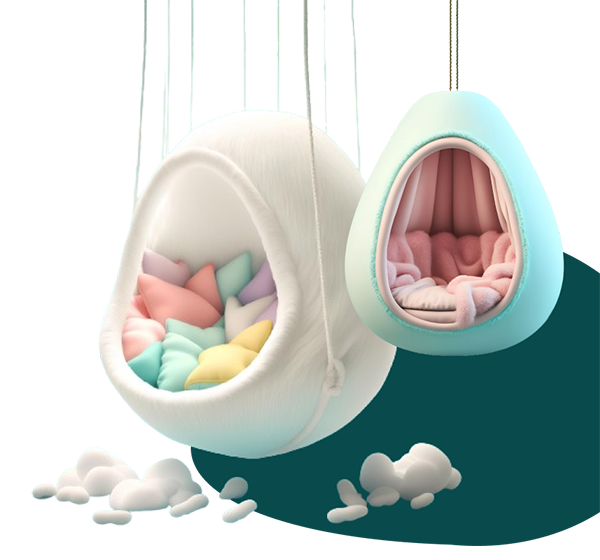
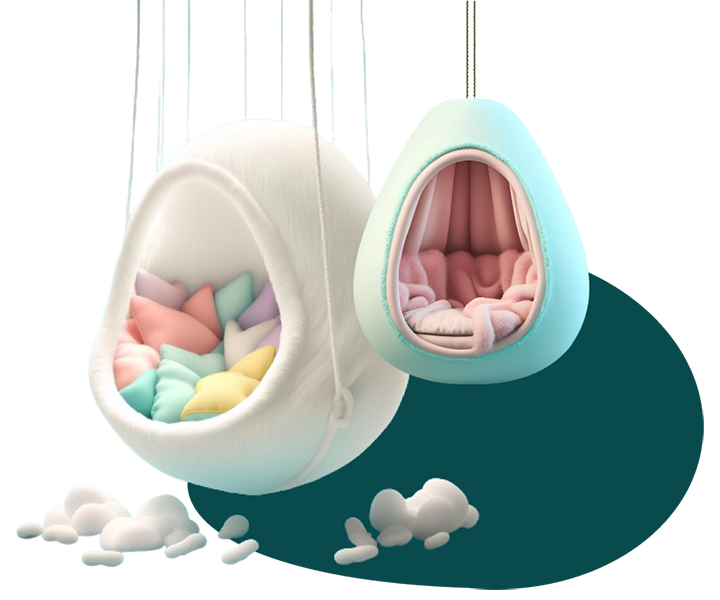
sistemato sedie sospese, srcset sedia marshmellow e bg sezione custom furniture

diff --git a/custom.css b/custom.css
@@ -302,6 +302,12 @@ strong{
 	width: 100%;
 	height: auto;
 	max-width: 720px;
+	transform: translateX(15%);
+
+ }
+
+ #creations-banner{
+	overflow-x: hidden;
  }
 
 
@@ -333,21 +339,32 @@ strong{
     display: none;
 }
 
-.reset-btn{
-	font-family: "Poppins", sans-serif;
-	font-size: 1rem;
-	font-weight: 500;
-	background-color: transparent;
-	color: var(--primary-color);
-	border: none;
-	padding-left: 0.5%;
+.reset-btn {
+    font-family: "Poppins", sans-serif;
+    font-size: 1rem;
+    font-weight: 500;
+    background-color: transparent;
+    color: var(--primary-color);
+    border: none;
+    padding-left: 0.5%;
+    position: relative;
 }
 
-
-
-.reset-btn:hover{
-	text-decoration: underline;
+.reset-btn::after {
+    content: '';
+    position: absolute;
+    width: 0;
+    height: 1px;
+    bottom: 0;
+    left: 0;
+    background-color: var(--primary-color);
+    transition: width 0.3s ease;
 }
+
+.reset-btn:hover::after {
+    width: 100%;
+}
+
 
  /*********CARD CREAZIONI********/
 .products-container{
@@ -366,7 +383,7 @@ strong{
 	background-size: contain;
 	background-repeat: no-repeat;
 	background-position: center bottom;
-	border-radius: 2.4rem;
+	border-radius: 50px;
 	margin: 1% 1% 0 1%;
 	align-content: space-between;
 
@@ -404,7 +421,7 @@ strong{
 }
 
 .card-body{
-	padding: 3rem 1.5rem 1.5rem 1.5rem;
+	padding: 50px 25px 25px 25px;
 }
 
 .card-body p{
@@ -414,8 +431,8 @@ strong{
 }
 
 .dot{
-	width: 2.5rem;
-    height: 2.5rem;
+	width: 42px;
+    height: 42px;
     border-radius: 50%;
     display: inline-block;
     cursor: pointer;
@@ -440,7 +457,7 @@ strong{
 
 @media (min-width: 768px) and (max-width: 1199px) {
 	.dot-group{
-		top: 58%; 
+		top: 60%; 
 	}
 	
 }
@@ -451,7 +468,7 @@ strong{
     left: 8%;
     z-index: 1;
     padding: 3% 5%;
-    border-radius: 0.5rem;
+    border-radius: 8px;
     background-color: var(--primary-color);
     color: var(--light-color);
 	font-size: 1.1rem;
@@ -587,8 +604,8 @@ footer{
 
 
 .round-btn{
-	width: 3.1rem;
-	height: 3.1rem;
+	width: 50px;
+	height: 50px;
 	background-color: var(--tertiary-color);
 	border: none;
 	cursor: pointer;

diff --git a/2_creazioni.html b/2_creazioni.html
@@ -95,7 +95,7 @@
   </div>
 <!--end menu-->
     <!--inizio banner creazioni-->
-    <div class="container-fluid pt-5 position-relative">
+    <div class="container-fluid pt-5 position-relative" id="creations-banner">
         <div class="container">
             <div class="row">
                 <div class="col-12 col-md-6 mt-5">
@@ -109,7 +109,7 @@
                         Con le loro forme eccentriche e i colori vivaci daranno un aspetto artistico 
                         ma raffinato ai tuoi ambienti.
                     </p>
-                    <img src="img/creazioni-bg2.png" alt="Poltrona marshmellow" class="img-fluid col-10 offset-2 offset-md-0 col-md-12 col-lg-8">
+                    <img srcset="img/creazioni-bg2-sm.png 200w, img/creazioni-bg2-md.png 300w, img/creazioni-bg2-lg.png 400w" alt="Poltrona marshmellow" class="img-fluid col-10 offset-2 offset-md-0 col-md-12 col-lg-8">
                 </div>
                 <div class="col-md-6 col-lg-7 col-xl-8 position-absolute top-1 end-0">
                     <img srcset="img/creazioni-bg1-md.png 540w, img/creazioni-bg1-lg.png" alt="Poltrone sospese" class="d-none d-md-block img-fluid" id="floating-chairs">
@@ -646,7 +646,7 @@
                     <ul>
                         <li class="nav-item mb-2"><a href="1_essenza.html">Essenza</a></li>
                         <li class="nav-item mb-2"><a href="4_portfolio.html">Portfolio</a></li>
-                        <li class="nav-item mb-2"><a href="1_essenza.html#join_us" >Lavora con noi</a></li>
+                        <li class="nav-item mb-2"><a href="1_essenza.html#join-us" >Lavora con noi</a></li>
                     </ul>
                 </div>
                 <div class="col-6 col-md-4 col-lg-2 text-light mb-5 footer-link">

diff --git a/footer.html b/footer.html
@@ -58,7 +58,7 @@
               <ul>
                   <li class="nav-item mb-2"><a href="1_essenza.html">Essenza</a></li>
                   <li class="nav-item mb-2"><a href="4_portfolio.html">Portfolio</a></li>
-                  <li class="nav-item mb-2"><a href="1_essenza.html#join_us" >Lavora con noi</a></li>
+                  <li class="nav-item mb-2"><a href="1_essenza.html#join-us" >Lavora con noi</a></li>
               </ul>
           </div>
           <div class="col-6 col-md-4 col-lg-2 text-light mb-5 footer-link">
